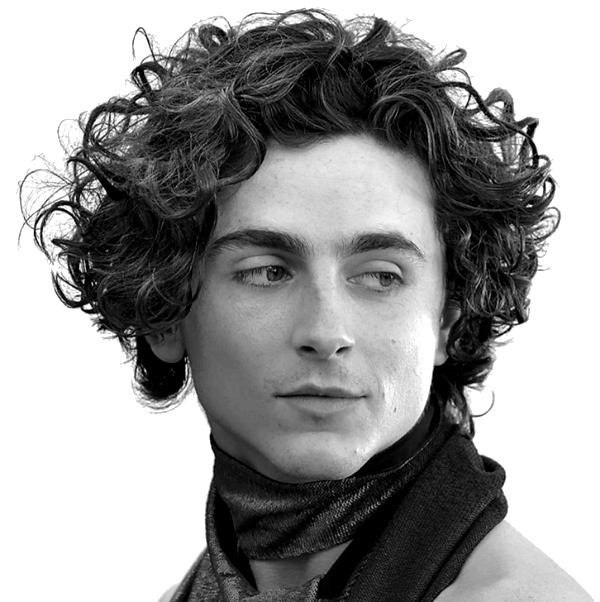
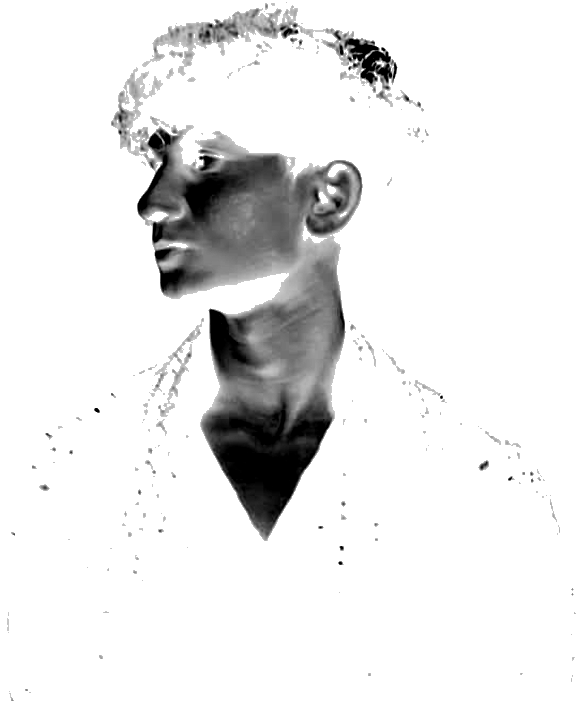
Real-photo portrait + lowk reveals for every function
- Portrait is now Tejeshwar's real photo: rembg cutout rendered as a
  luminous 'emerge-from-shadow' tonal particle field
- Every function resolves into a real slice of lowk (Nocturne — Chennai,
  10 Jul 2026, tiers General ₹699 / Group of 4 ₹2499):
  Ticket = dark Nocturne e-ticket (tilt + tear to book),
  Discover = events feed, Network = attendees, Organise = organiser toolkit
- Drop Revolution Clash references in favour of Nocturne

diff --git a/styles.css b/styles.css
@@ -170,55 +170,99 @@ body.invert .grain { opacity: 0.035; }
 }
 @media (max-width: 1120px) { .vlabel { display: none; } }
 
-/* ---------- Sample lowk ticket (resolves from the particles) ---------- */
-.sample { position: fixed; inset: 0; z-index: 4; pointer-events: none; opacity: 0; transition: opacity 500ms ease; }
-.sample.on { opacity: 1; }
-.tkt {
+/* ---------- Sample cards: each function resolves into real lowk ---------- */
+.sample { position: fixed; inset: 0; z-index: 4; pointer-events: none; }
+.card {
   position: absolute; left: 46%; top: 50%;
-  transform: translate(-50%, -50%) perspective(1000px) scale(0.92);
-  width: min(86vw, 430px); display: flex; pointer-events: auto;
-  background: #F5F6F8; color: #14171E; border-radius: 15px; overflow: hidden;
-  box-shadow: 0 34px 90px -24px rgba(0,0,0,0.7), 0 0 0 1px rgba(255,255,255,0.05);
-  transition: transform 650ms cubic-bezier(.2,.85,.2,1);
-  will-change: transform;
+  transform: translate(-50%, -50%) scale(0.95);
+  opacity: 0; pointer-events: none;
+  transition: opacity 420ms ease, transform 560ms cubic-bezier(.2,.85,.2,1);
 }
-.sample.on .tkt { transform: translate(-50%, -50%) perspective(1000px) scale(1); }
+.card.show { opacity: 1; transform: translate(-50%, -50%) scale(1); pointer-events: auto; }
+.sample-hint {
+  position: absolute; left: 0; right: 0; bottom: calc(50% - 182px); text-align: center;
+  font-size: 10.5px; color: var(--fg-faint); letter-spacing: 0.02em; opacity: 0; transition: opacity 420ms ease;
+}
+.sample.on .sample-hint { opacity: 1; }
+
+/* shared dark panel (discover / network / organise) */
+.panel {
+  width: min(88vw, 400px); background: #121419; color: var(--fg);
+  border: 1px solid rgba(255,255,255,0.07); border-radius: 16px; padding: 20px 20px 18px;
+  box-shadow: 0 34px 90px -28px rgba(0,0,0,0.78); font-family: "Geist Mono", monospace;
+}
+.panel-head { display: flex; align-items: baseline; justify-content: space-between; margin-bottom: 15px; }
+.panel-title { font-family: "Instrument Serif", serif; font-size: 25px; }
+.panel-tag { font-size: 9.5px; letter-spacing: 0.14em; text-transform: uppercase; color: var(--fg-faint); }
+.panel-foot { font-size: 11px; font-weight: 300; line-height: 1.5; color: var(--fg-soft); margin-top: 16px; }
+
+.dsc-search { font-size: 12px; color: var(--fg-faint); background: #0C0E13; border: 1px solid rgba(255,255,255,0.06); border-radius: 9px; padding: 9px 12px; }
+.chips { display: flex; flex-wrap: wrap; gap: 6px; margin-top: 12px; }
+.chips span { font-size: 10.5px; color: var(--fg-soft); border: 1px solid var(--line); border-radius: 999px; padding: 4px 10px; }
+.chips span.on { color: var(--accent); border-color: var(--accent); }
+.evrow { display: flex; align-items: center; gap: 12px; margin-top: 14px; padding: 11px; background: #0C0E13; border: 1px solid rgba(255,255,255,0.05); border-radius: 11px; }
+.evthumb { width: 38px; height: 38px; flex: none; display: grid; place-items: center; border-radius: 9px; background: var(--accent); color: #fff; font-family: "Instrument Serif", serif; font-size: 20px; }
+.evmeta { display: flex; flex-direction: column; flex: 1; gap: 2px; }
+.evname { font-size: 13.5px; font-weight: 500; }
+.evsub { font-size: 10.5px; color: var(--fg-soft); }
+.evgo { font-size: 11px; color: var(--accent); font-weight: 500; }
+
+.avatars { display: flex; }
+.avatars i { width: 38px; height: 38px; border-radius: 50%; display: grid; place-items: center; font-style: normal; font-size: 11px; font-weight: 500; color: var(--fg); background: #22262F; border: 2px solid #121419; margin-left: -8px; }
+.avatars i:first-child { margin-left: 0; }
+.avatars i.more { background: var(--accent); color: #fff; }
+.netline { display: flex; align-items: center; margin-top: 18px; }
+.netline .dot { width: 9px; height: 9px; border-radius: 50%; background: var(--fg-faint); flex: none; }
+.netline .dot.on { background: var(--accent); box-shadow: 0 0 12px var(--accent); }
+.netline .seg { flex: 1; height: 1px; background: var(--line); }
+
+.org-tiers { display: flex; gap: 10px; }
+.org-tiers .tier { flex: 1; display: flex; flex-direction: column; gap: 4px; padding: 12px; background: #0C0E13; border: 1px solid rgba(255,255,255,0.05); border-radius: 11px; }
+.org-tiers .tier span { font-size: 10.5px; color: var(--fg-soft); }
+.org-tiers .tier b { font-family: "Instrument Serif", serif; font-size: 22px; font-weight: 400; }
+.org-tools { display: flex; flex-wrap: wrap; gap: 6px; margin-top: 12px; }
+.org-tools span { font-size: 10.5px; color: var(--accent); border: 1px solid var(--accent); border-radius: 999px; padding: 4px 10px; opacity: 0.85; }
+
+/* Nocturne ticket (dark) */
+.tkt {
+  width: min(88vw, 430px); display: flex; overflow: hidden; border-radius: 15px;
+  background: #141017; color: #EFE9EC; border: 1px solid rgba(255,255,255,0.07);
+  box-shadow: 0 36px 94px -26px rgba(0,0,0,0.85); --red: #C21533;
+}
 .tkt-main { flex: 1; padding: 20px 20px 17px; position: relative; }
 .tkt-top { display: flex; align-items: center; justify-content: space-between; }
-.tkt-brand { font-family: "Instrument Serif", serif; font-size: 24px; color: var(--accent); line-height: 1; }
-.tkt-brand i { font-style: normal; color: #14171E; opacity: 0.55; font-size: 18px; }
-.tkt-tag { font-size: 9.5px; letter-spacing: 0.16em; text-transform: uppercase; color: #8A93A2; border: 1px solid #D4D9E1; border-radius: 999px; padding: 3px 8px; }
-.tkt-event { font-family: "Instrument Serif", serif; font-size: 30px; line-height: 1.02; margin-top: 16px; letter-spacing: -0.01em; }
-.tkt-sub { font-size: 11px; color: #6B7482; margin-top: 4px; }
+.tkt-brand { font-family: "Instrument Serif", serif; font-size: 23px; color: var(--red); line-height: 1; }
+.tkt-brand i { font-style: normal; color: #EFE9EC; opacity: 0.5; font-size: 17px; }
+.tkt-tag { font-size: 9px; letter-spacing: 0.18em; text-transform: uppercase; color: #9A8E94; border: 1px solid #3A2A31; border-radius: 999px; padding: 3px 9px; }
+.tkt-event { font-family: "Instrument Serif", serif; font-size: 34px; line-height: 1; margin-top: 16px; letter-spacing: -0.01em; }
+.tkt-sub { font-size: 10.5px; color: #A99CA2; margin-top: 6px; }
 .tkt-grid { display: flex; gap: 20px; margin-top: 18px; }
-.tkt-grid .k { display: block; font-size: 9px; letter-spacing: 0.1em; text-transform: uppercase; color: #9AA2B0; margin-bottom: 3px; }
-.tkt-grid .v { font-size: 12.5px; font-weight: 500; color: #14171E; }
-.tkt-grid .v.ok { color: var(--accent); }
-.tkt-sample-tag { position: absolute; top: 14px; right: 94px; font-size: 8.5px; letter-spacing: 0.18em; text-transform: uppercase; color: #B4BAC4; }
+.tkt-grid .k { display: block; font-size: 8.5px; letter-spacing: 0.1em; text-transform: uppercase; color: #8A7E84; margin-bottom: 3px; }
+.tkt-grid .v { font-size: 12.5px; font-weight: 500; }
+.tkt-grid .v.ok { color: var(--red); }
+.tkt-sample-tag { position: absolute; top: 15px; right: 90px; font-size: 8px; letter-spacing: 0.2em; text-transform: uppercase; color: #6A5E64; }
 .tkt-stub {
-  width: 112px; flex: none; border: 0; border-left: 2px dashed #C6CCD5;
-  background: #ECEEF2; color: #14171E; cursor: pointer; font-family: inherit;
-  padding: 16px 10px 14px; display: flex; flex-direction: column; align-items: center; justify-content: space-between;
+  width: 110px; flex: none; border: 0; border-left: 2px dashed #3A2A31; background: #19141B;
+  color: #EFE9EC; cursor: pointer; font-family: inherit; padding: 16px 10px 14px;
+  display: flex; flex-direction: column; align-items: center; justify-content: space-between;
   position: relative; transition: transform 750ms cubic-bezier(.3,.9,.25,1), opacity 650ms ease;
 }
-.tkt-stub::before, .tkt-stub::after { content: ""; position: absolute; left: -10px; width: 18px; height: 18px; border-radius: 50%; background: var(--ground); transition: background 700ms ease; }
+.tkt-stub::before, .tkt-stub::after { content: ""; position: absolute; left: -10px; width: 18px; height: 18px; border-radius: 50%; background: var(--ground); }
 .tkt-stub::before { top: -9px; } .tkt-stub::after { bottom: -9px; }
-.qr { width: 66px; height: 66px; background:
-  repeating-linear-gradient(90deg, #14171E 0 2px, transparent 2px 4px, #14171E 4px 5px, transparent 5px 8px, #14171E 8px 11px, transparent 11px 13px, #14171E 13px 14px, transparent 14px 17px);
+.qr { width: 62px; height: 62px; opacity: 0.9; background:
+  repeating-linear-gradient(90deg, #EFE9EC 0 2px, transparent 2px 4px, #EFE9EC 4px 5px, transparent 5px 8px, #EFE9EC 8px 11px, transparent 11px 13px, #EFE9EC 13px 14px, transparent 14px 17px);
   background-size: 17px 100%; }
-.tkt-stub-label { font-size: 9px; letter-spacing: 0.14em; text-transform: uppercase; color: #8A93A2; }
-.tkt-tear { font-size: 10px; color: var(--accent); font-weight: 500; }
+.tkt-stub-label { font-size: 8.5px; letter-spacing: 0.14em; text-transform: uppercase; color: #9A8E94; }
+.tkt-tear { font-size: 10px; color: var(--red); font-weight: 600; }
 .tkt:hover .tkt-tear { text-decoration: underline; }
 .tkt.torn .tkt-stub { transform: translate(150px, -6px) rotate(8deg); opacity: 0; pointer-events: none; }
-.sample-hint { position: absolute; left: 0; right: 0; bottom: calc(50% - 170px); text-align: center; font-size: 10.5px; color: var(--fg-faint); letter-spacing: 0.02em; }
 
 @media (max-width: 760px) {
-  .tkt { left: 50%; top: 42%; width: min(90vw, 360px); }
-  .sample-hint { bottom: auto; top: calc(42% + 118px); }
+  .card { left: 50%; top: 41%; }
+  .panel, .tkt { width: min(90vw, 358px); }
+  .sample-hint { bottom: auto; top: calc(41% + 156px); }
 }
-@media (prefers-reduced-motion: reduce) {
-  .sample, .tkt, .tkt-stub { transition: none; }
-}
+@media (prefers-reduced-motion: reduce) { .card, .tkt-stub { transition: none; } }
 
 /* ---------- Caption ---------- */
 .caption {

diff --git a/index.html b/index.html
@@ -45,7 +45,7 @@
     <p class="kicker" style="--d:0">Founder<span class="sep">/</span><span class="lowk">lowk.in</span></p>
     <h1 class="name"><span style="--d:1">Tejeshwar</span><span style="--d:2">Vijayakumar</span></h1>
     <p class="lead" style="--d:3">Building <span class="lowk">lowk.in</span> — a nationwide platform for event discovery, ticketing &amp; real-world networking.</p>
-    <p class="meta" style="--d:4">Eighteen · BITS&nbsp;Pilani, Hyderabad&nbsp;&nbsp;·&nbsp;&nbsp;first client, Revolution&nbsp;Clash</p>
+    <p class="meta" style="--d:4">Eighteen · BITS&nbsp;Pilani, Hyderabad&nbsp;&nbsp;·&nbsp;&nbsp;now&nbsp;live: Nocturne</p>
   </header>
 
   <!-- Scattered function nodes, each tethered to the lowk node by a hairline -->
@@ -77,30 +77,62 @@
   <!-- lowk pillars (right edge) -->
   <p class="vlabel" aria-hidden="true">Event discovery&nbsp;&nbsp;·&nbsp;&nbsp;Ticketing&nbsp;&nbsp;·&nbsp;&nbsp;Real-world networking</p>
 
-  <!-- Sample lowk ticket — the particles resolve into a real product -->
-  <div class="sample" id="ticketSample" aria-hidden="true">
-    <div class="tkt" id="tkt">
+  <!-- Each function resolves the particles into a real slice of lowk -->
+  <div class="sample" id="sample" aria-hidden="true">
+
+    <!-- Ticket → a real Nocturne e-ticket -->
+    <div class="card tkt card-ticket" id="tkt" data-for="ticket">
       <div class="tkt-main">
-        <div class="tkt-top">
-          <span class="tkt-brand">lowk<i>.in</i></span>
-          <span class="tkt-tag">e-ticket</span>
-        </div>
-        <div class="tkt-event">Revolution&nbsp;Clash</div>
-        <div class="tkt-sub">General admission</div>
+        <div class="tkt-top"><span class="tkt-brand">lowk<i>.in</i></span><span class="tkt-tag">underground</span></div>
+        <div class="tkt-event">Nocturne</div>
+        <div class="tkt-sub">Fri 10 Jul 2026 · 4–8 PM · Nungambakkam, Chennai</div>
         <div class="tkt-grid">
-          <div><span class="k">Gate</span><span class="v">A</span></div>
-          <div><span class="k">Ref</span><span class="v">LWK·0042</span></div>
+          <div><span class="k">Tier</span><span class="v">General</span></div>
+          <div><span class="k">Entry</span><span class="v">₹699</span></div>
           <div><span class="k">Status</span><span class="v ok" id="tktStatus">Reserved</span></div>
         </div>
         <span class="tkt-sample-tag">sample</span>
       </div>
       <button class="tkt-stub" id="tktStub" aria-label="Tear the stub to book this sample ticket">
         <span class="qr" aria-hidden="true"></span>
-        <span class="tkt-stub-label">admit one</span>
+        <span class="tkt-stub-label">admit · 042</span>
         <span class="tkt-tear" id="tktTear">tear to book ▸</span>
       </button>
     </div>
-    <p class="sample-hint" id="sampleHint">a real lowk ticket · hover it, then tear the stub</p>
+
+    <!-- Discover → events feed -->
+    <div class="card panel card-discover" data-for="discover">
+      <div class="panel-head"><span class="panel-title">Discover</span><span class="panel-tag">near you</span></div>
+      <div class="dsc-search">⌕&nbsp;&nbsp;Search events near you…</div>
+      <div class="chips"><span>Tournaments</span><span>MUNs</span><span>Fests</span><span class="on">Underground</span></div>
+      <div class="evrow">
+        <span class="evthumb">N</span>
+        <span class="evmeta"><span class="evname">Nocturne</span><span class="evsub">Chennai · 10 Jul · from ₹699</span></span>
+        <span class="evgo">Going&nbsp;▸</span>
+      </div>
+      <p class="panel-foot">Every event on one map — tournaments, MUNs, fests &amp; grassroots meetups.</p>
+    </div>
+
+    <!-- Network → people at events -->
+    <div class="card panel card-network" data-for="network">
+      <div class="panel-head"><span class="panel-title">Network</span><span class="panel-tag">at Nocturne</span></div>
+      <div class="avatars"><i>AK</i><i>RS</i><i>MJ</i><i>TV</i><i class="more">+</i></div>
+      <div class="netline"><b class="dot"></b><b class="seg"></b><b class="dot"></b><b class="seg"></b><b class="dot on"></b><b class="seg"></b><b class="dot"></b></div>
+      <p class="panel-foot">See who's going before the night starts — lowk turns events into real-world networks.</p>
+    </div>
+
+    <!-- Organise → organiser toolkit -->
+    <div class="card panel card-organise" data-for="organise">
+      <div class="panel-head"><span class="panel-title">Organise</span><span class="panel-tag">Nocturne · live</span></div>
+      <div class="org-tiers">
+        <span class="tier"><span>General</span><b>₹699</b></span>
+        <span class="tier"><span>Group of 4</span><b>₹2499</b></span>
+      </div>
+      <div class="org-tools"><span>Price tiers</span><span>QR check-in</span><span>Payouts</span></div>
+      <p class="panel-foot">List it, price it, scan them in at the door — run the whole event end to end.</p>
+    </div>
+
+    <p class="sample-hint" id="sampleHint">a real Nocturne ticket · hover it, then tear the stub</p>
   </div>
 
   <script src="./app.js"></script>

diff --git a/app.js b/app.js
@@ -247,7 +247,7 @@
     const img = new Image();
     img.onload = () => { sampleSilhouette(img); if (currentMode === "about") buildFormation("about", false); };
     img.onerror = () => {};
-    img.src = "./me.png?v=5";
+    img.src = "./me.png?v=6";
   })();
 
   // ======================================================================
@@ -464,7 +464,7 @@
     about:    ["About", "lowk.in is my core work — a nationwide platform for event discovery, ticketing and real-world networking, built for tournaments, MUNs, college fests and grassroots gatherings."],
     discover: ["Discover", "lowk puts every event on one map — tournaments, MUNs, fests and grassroots meetups across India. Find what's happening near you."],
     ticket:   ["Ticket", "Tap the stub to tear it off. lowk turns discovery into a booked seat in one move — no scattered forms, no DMs."],
-    network:  ["Network", "Move through the field — people connect. lowk turns events into real-world networks. First paying client: Revolution Clash."],
+    network:  ["Network", "Move through the field — people connect. lowk turns events into real-world networks — meet people before the night even starts."],
     organise: ["Organise", "lowk hands organisers the whole stack — list it, ticket it, and run the bracket end to end."],
   };
   function setCaption(key, text) {
@@ -698,31 +698,36 @@
   setTimeout(hideHint, 6000);
 
   // ----- Sample lowk ticket: the ticket formation resolves into a real product -----
-  const ticketSample = document.getElementById("ticketSample");
+  const sample = document.getElementById("sample");
+  const sampleCards = document.querySelectorAll("#sample .card");
   const tkt = document.getElementById("tkt");
   const tktStub = document.getElementById("tktStub");
   const tktStatus = document.getElementById("tktStatus");
   const tktTear = document.getElementById("tktTear");
   const sampleHint = document.getElementById("sampleHint");
+  const SAMPLE_WITH = ["ticket", "discover", "network", "organise"];
+  const SAMPLE_HINT = {
+    ticket: "a real Nocturne ticket · hover it, then tear the stub",
+    discover: "a live slice of lowk Discover",
+    network: "lowk Network — meet people at real events",
+    organise: "the lowk organiser toolkit",
+  };
   function showSample(mode) {
-    const on = mode === "ticket";
-    ticketSample.classList.toggle("on", on);
-    ticketSample.setAttribute("aria-hidden", String(!on));
-    if (on) {
-      tkt.classList.remove("torn");
-      tkt.style.transform = "";
-      tktStatus.textContent = "Reserved";
-      tktTear.textContent = "tear to book ▸";
-      if (sampleHint) sampleHint.textContent = "a real lowk ticket · hover it, then tear the stub";
-    } else {
-      tkt.style.transform = "";
+    const has = SAMPLE_WITH.includes(mode);
+    sample.classList.toggle("on", has);
+    sample.setAttribute("aria-hidden", String(!has));
+    sampleCards.forEach((c) => c.classList.toggle("show", c.dataset.for === mode));
+    if (mode === "ticket") {
+      tkt.classList.remove("torn"); tkt.style.transform = "";
+      tktStatus.textContent = "Reserved"; tktTear.textContent = "tear to book ▸";
     }
+    if (sampleHint) sampleHint.textContent = SAMPLE_HINT[mode] || "";
   }
   tktStub.addEventListener("click", () => {
     if (tkt.classList.contains("torn")) return;
     tkt.classList.add("torn");
     tktStatus.textContent = "Booked";
-    if (sampleHint) sampleHint.textContent = "booked with lowk — see you at the event ✓";
+    if (sampleHint) sampleHint.textContent = "booked with lowk — see you at Nocturne ✓";
     tearStub();   // echo the tear in the particle field
   });
   if (!prefersReduced) {

diff --git a/README.md b/README.md
@@ -28,8 +28,8 @@ Two utility toggles: **invert** the palette (dark ⇄ light) and show **fewer do
 ## About lowk.in
 
 A nationwide platform for event discovery, ticketing and real-world networking —
-built for tournaments, MUNs, college fests and grassroots gatherings. First paying
-client: **Revolution Clash**.
+built for tournaments, MUNs, college fests and grassroots gatherings. The sample
+reveals throughout the site use a real lowk event — **Nocturne** (Chennai).
 
 ## How it was built (AI-assisted development)
 
@@ -56,7 +56,7 @@ motion system, and handled the git history, GitHub repo and Vercel deployment en
   field and a light HUD frame fill the negative space; film grain + a subtle vignette add
   atmosphere; a staggered entrance reveal. A single accent colour throughout.
 - **Product, not just dots.** The Ticket formation resolves into a real lowk sample ticket
-  (Revolution Clash) — hover to tilt it in 3D, tear the stub to book; the particle field
+  (Nocturne) — hover to tilt it in 3D, tear the stub to book; the particle field
   tears in sync. The lowk node at the portrait's core is labelled and clickable → lowk.in.
 - **Accessible.** Real buttons/links with `aria-label`s, visible keyboard focus, keyboard
   shortcuts `1–7`, an `aria-live` caption, readable contrast, and full `<title>`/OG tags.
@@ -66,8 +66,8 @@ motion system, and handled the git history, GitHub repo and Vercel deployment en
 - **Responsive.** On mobile the portrait sits upper-middle and the index becomes a bottom
   dock; touch interaction and the ticket tear both work.
 
-> The portrait is a reference likeness used while building; drop a transparent-background
-> cutout of your own photo at `me.png` to personalise it.
+> The portrait is sampled from a real photo of Tejeshwar (cut out with `rembg`, then
+> rendered as a luminous "emerge-from-shadow" tonal field). Swap `me.png` to use any portrait.
 
 ## Run locally
 
